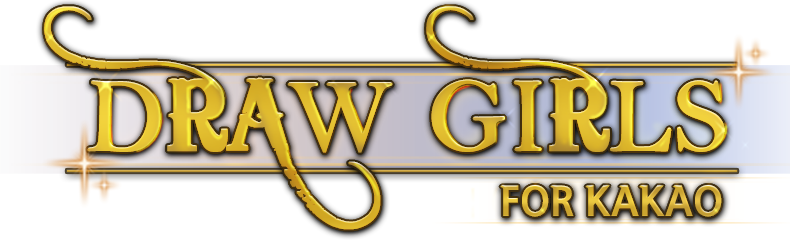
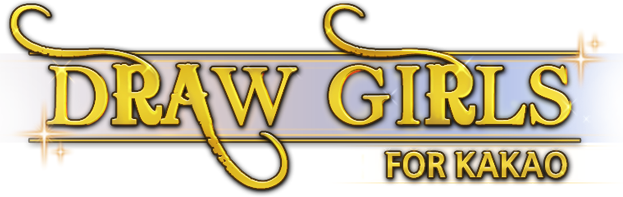
타이틀 변경

diff --git a/Classes/TitleRenewal.cpp b/Classes/TitleRenewal.cpp
@@ -52,12 +52,13 @@ bool TitleRenewalScene::init()
 	addChild(title_img);
 	
 	CCSprite* title_name = CCSprite::create("temp_title_name.png");
-	title_name->setPosition(ccp(240,210));
+	title_name->setAnchorPoint(ccp(0,0));
+	title_name->setPosition(ccp(0,10));//240,210));
 	addChild(title_name);
 	
 	state_label = CCLabelTTF::create("카카오 서버 접속중", mySGD->getFont().c_str(), 20);
 	state_label->setColor(ccBLACK);
-	state_label->setPosition(ccp(240,100));
+	state_label->setPosition(ccp(240,130));
 	addChild(state_label);
 	
 	Json::Value param;
